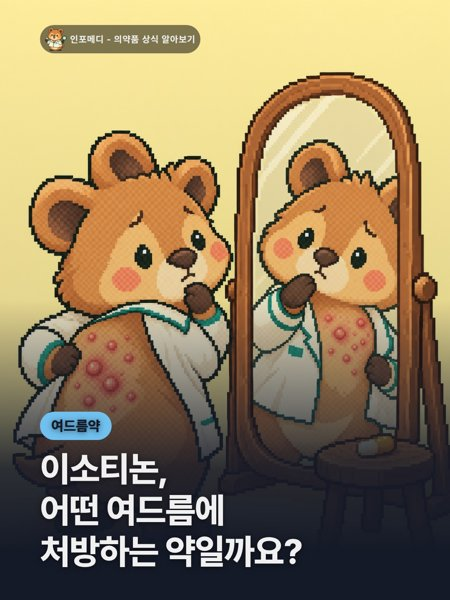
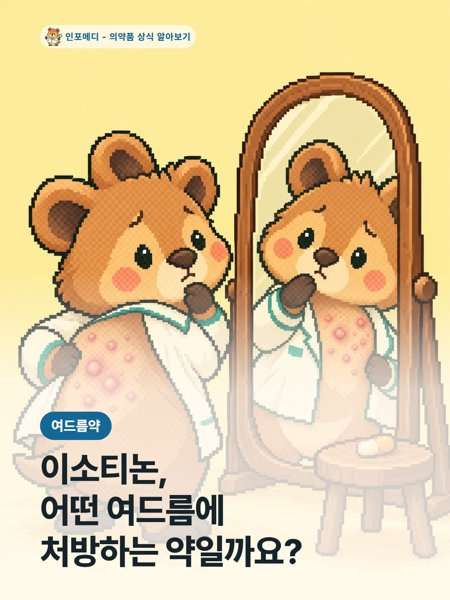
links

diff --git a/index.html b/index.html
@@ -34,7 +34,7 @@
 <section class="section">
 <h2>의약품 정보 <small id="count"></small></h2>
 <div class="grid" id="list">
-<a class="item" href="https://blog.naver.com/info_medi_/224422847713"><img src="c/이소티논-white.jpg" alt="" loading="lazy">
+<a class="item" href="https://blog.naver.com/info_medi_/224422847713"><img src="c/이소티논.jpg" alt="" loading="lazy">
 <span><b>이소티논, 어떤 여드름에 처방하는 약일까요?</b><small><time datetime="2026-10-03 12:16"></time></small></span></a>
 <a class="item" href="https://blog.naver.com/info_medi_/224422846974"><img src="c/마이녹실.jpg" alt="" loading="lazy">
 <span><b>마이녹실, 바르면 머리가 더 빠질까요?</b><small><time datetime="2026-10-03 07:48"></time></small></span></a>
